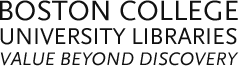
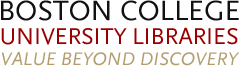
Homepage updated to "Gray" style
Removed all background elements, implemented simple gray header,
tightened padding to fit, new Library title.

diff --git a/themes/bc/static/css/style.css b/themes/bc/static/css/style.css
@@ -16,9 +16,7 @@ asapbold
 */
 
 body {
-    background: url("../img/backgrounds/bg_generic.png") no-repeat #fff 0% 0%;
-    background-size: cover;
-    background-attachment: fixed;
+    background: url("../img/backgrounds/bg_gray_looped.png") repeat-x #fff 0% 0%;
     font-family: 'Asap', sans-serif;
     color: #666;
     font-size: 13px;
@@ -28,7 +26,7 @@ body {
 
 @media ( max-width: 1199px ) {
     body {
-        background: url("../img/backgrounds/bg_generic.png") no-repeat #fff 0% 0%;
+        background: url("../img/backgrounds/bg_gray.png") no-repeat #fff 0% 0%;
         background-size: cover;
         background-attachment: fixed;
     }
@@ -235,8 +233,8 @@ img.center {
 }
 
 #fullpagewrapper {
-    width: 1236px;
-    margin: 0 auto;
+    width: 1200px;
+    margin: 25px auto 0;
     position: relative;
     z-index: 100;
 }
@@ -371,7 +369,6 @@ img.center {
 #lg_headertitle {
     clear: both;
     display: inline-block;
-    background: none repeat scroll 0 0 rgba(255, 255, 255, .4);
     padding: 10px;
 }
 
@@ -383,9 +380,9 @@ img.center {
 }
 
 #lg_headertitle a {
-    background: url("/theme/img/title_stacked.png") no-repeat;
-    height: 70px;
-    width: 240px;
+    background: url("/theme/img/title_gray.png") no-repeat;
+    height: 65px;
+    width: 755px;
     display: inline-block;
 }
 
@@ -982,8 +979,8 @@ img.center {
 /* FOOTER */
 
 #footer {
-    background: url("/theme/img/footer_bg.png") no-repeat 0 0;
-    width: 1236px;
+    background: #fff;
+    width: 1200px;
     min-height: 270px;
     padding: 10px 20px 0 20px;
     margin: 0 auto;
@@ -1506,7 +1503,7 @@ nav select {
 /* HACKS AND EDITS TO BOOTSTRAP  */
 
 #megamenu .container {
-    width: 1178px;
+    width: 1200px;
     margin: 0 0 0 0;
     padding: 0 0 0 0;
 }
@@ -1739,11 +1736,11 @@ nav select {
 /* CUSTOM MENU STYLING */
 
 #megamenu {
-    width: 1236px;
-    height: 139px;
+    width: 1200px;
+    height: 95px;
     margin: 0px auto;
-    padding: 40px 29px 0;
-    background: url("/theme/img/menu_bg.png") no-repeat 1px 0;
+    padding:  0;
+    background: #fff;
 }
 
 @media ( max-width: 1199px ) {

diff --git a/themes/bc/templates/base.html b/themes/bc/templates/base.html
@@ -33,23 +33,19 @@
 
 <body id="index" class="s-lg-guide-body mainhomepage">
 
-<!-- TEMPORARY RIBBON TO DENOTE BETA-NESS -->
-<div id="beta-ribbon"><a href="http://www.bc.edu/libraries/about/new-site.html"><strong>Development site</strong><br>Tell us how you like it!</a></div>
+<!-- TEMPORARY RIBBON TO DENOTE BETA-NESS 
+<div id="beta-ribbon"><a href="http://www.bc.edu/libraries/about/new-site.html"><strong>Development site</strong><br>Tell us how you like it!</a></div>-->
 
 <!-- BEGIN HEADER -->
 <div id="header">
     <div id="lg_headertitle">
         <a href="/"><h1>Boston College University Libraries </h1></a>
-        <div id="motto">
+        
+        <!--<div id="motto">
             <p>Value Beyond Discovery</p>
-        </div>
+        </div> -->
     </div>
 
-   <!-- <div id="my_accounts">
-        <ul>
-            <li><a href="http://library.bc.edu/my-accounts"><i class="fa fa-user"></i> My Accounts</a></li>
-        </ul>
-    </div> -->
 </div>
 <!-- END HEADER -->
 
